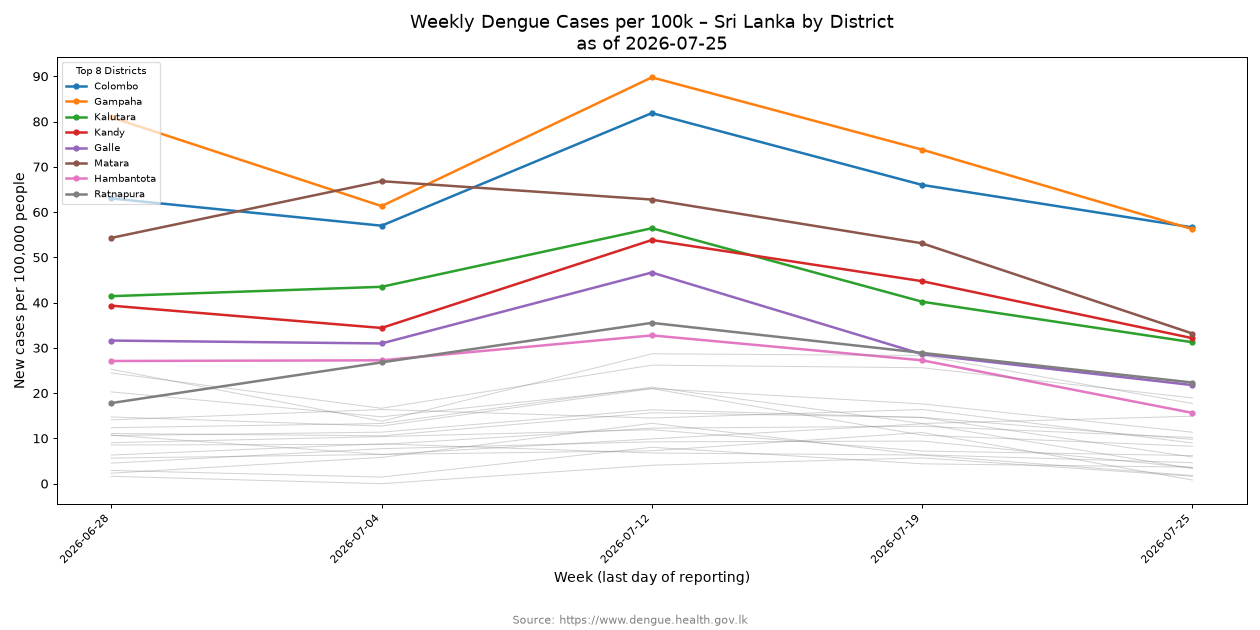
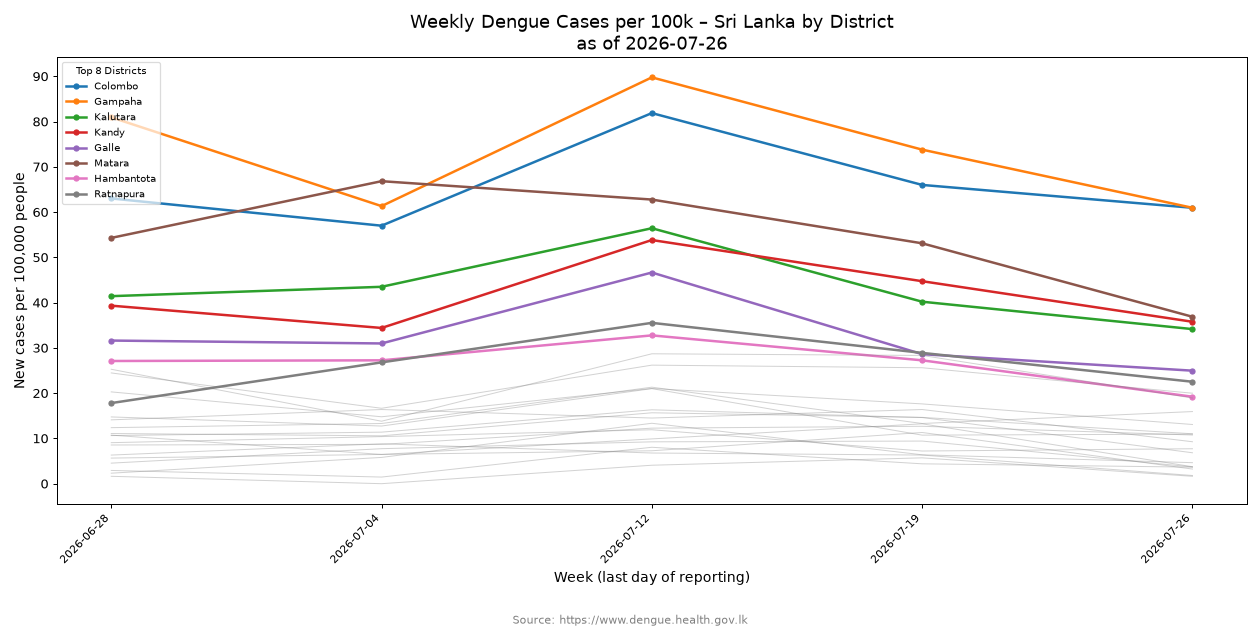
🤖 [pipeline.yml] 2026-07-27-0551

Changed region(s): [[0.7429, 0.5429, 0.9595, 0.754], [0.7429, 0.3921, 0.9595, 0.5429], [0.7429, 0.2413, 0.9595, 0.3619]]

diff --git a/README.md b/README.md
@@ -287,6 +287,7 @@ As of 2026-07-19
 
 ### [National Dengue Control Unit - Daily Update](data/NDCUDaily)
 
+- [2026-07-26](data/NDCUDaily/2026/2026-07/2026-07-26)
 - [2026-07-25](data/NDCUDaily/2026/2026-07/2026-07-25)
 - [2026-07-24](data/NDCUDaily/2026/2026-07/2026-07-24)
 - [2026-07-23](data/NDCUDaily/2026/2026-07/2026-07-23)
